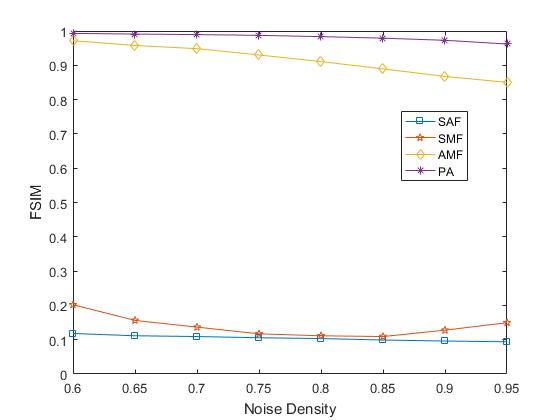
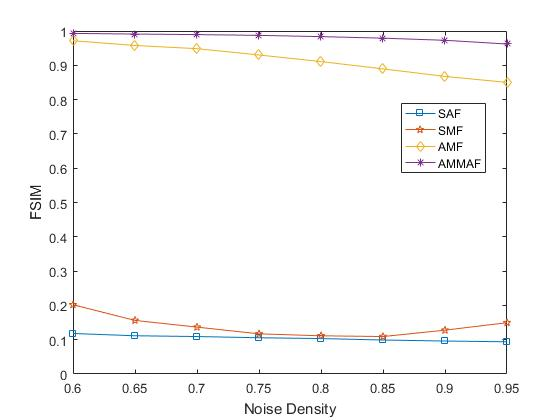
update pics

Changed region(s): [[0.6982, 0.2476, 0.8804, 0.4333]]

diff --git a/code/drawline.m b/code/drawline.m
@@ -1,0 +1,33 @@
+X = linspace(0.6,0.95,8);
+% FSIM
+figure(1)
+SMFFSIM = [0.2019,0.1562,0.1367,0.1171,0.1114,0.1092,0.1278,0.1496];
+SAFFSIM=[0.1181,0.1115,0.1092,0.1057, 0.1033, 0.0991, 0.0961,0.0939]
+AMFFSIM = [0.9716,0.9577,0.9485,0.9301,0.9108,0.8896,0.8675,0.8502];
+PAFSIM = [0.9930,0.9911,0.9895,0.9873,0.9836,0.9791,0.9729,0.9621];
+plot(X,SAFFSIM,'-s',X,SMFFSIM,'-p',X,AMFFSIM,'-d',X,PAFSIM,'-*');
+legend('SAF','SMF','AMF','AMMAF');
+xlabel('Noise Density');
+ylabel('FSIM');
+% SSIM
+figure(2)
+SAFSSIM = [0,0,0,0,0,0,0,0];
+SMFSSIM = SAFSSIM;
+AMFSSIM = [0.5883,0.4593,0.3479,0.2172,0.1202,0.0656,0.0334,0.0159];
+PASSIM = [0.8694,0.8462,0.8298,0.8043,0.7734,0.7388,0.6891,0.6093];
+plot(X,SAFFSIM,'-s',X,SMFFSIM,'-p',X,AMFFSIM,'-d',X,PAFSIM,'-*');
+plot(X,SAFSSIM,'-s',X,SMFSSIM,'-p',X,AMFSSIM,'-d',X,PASSIM,'-*');
+legend('SAF','SMF','AMF','AMMAF');
+xlabel('Noise Density');
+ylabel('SSIM');
+% HD
+figure(3)
+SAFHD = [0.0020,0.0020,0.0020,0.0020,0.0020,0.0021,0.0021,0.0021];
+SMFHD = [0.0031,0.0033,0.0034,0.0036,0.0037,0.0039,0.0040,0.0041];
+AMFHD = [0.8420,0.8477,0.8645,0.8592,0.9157,0.8252,0.8186,0.6352];
+PAHD = [0.8420,0.8477,0.8645,0.8592,0.9157,0.8252,0.8186,0.6352];
+AMFHD = [0.6351,0.6209,0.6061,0.5784,0.5347,0.4724,0.3914,0.2766];
+plot(X,SAFHD,'-s',X,SMFHD,'-p',X,AMFHD,'-d',X,PAHD,'-*');
+ylabel('Histogram distance');
+xlabel('Noise Density');
+legend('SAF','SMF','AMF','AMMAF');
